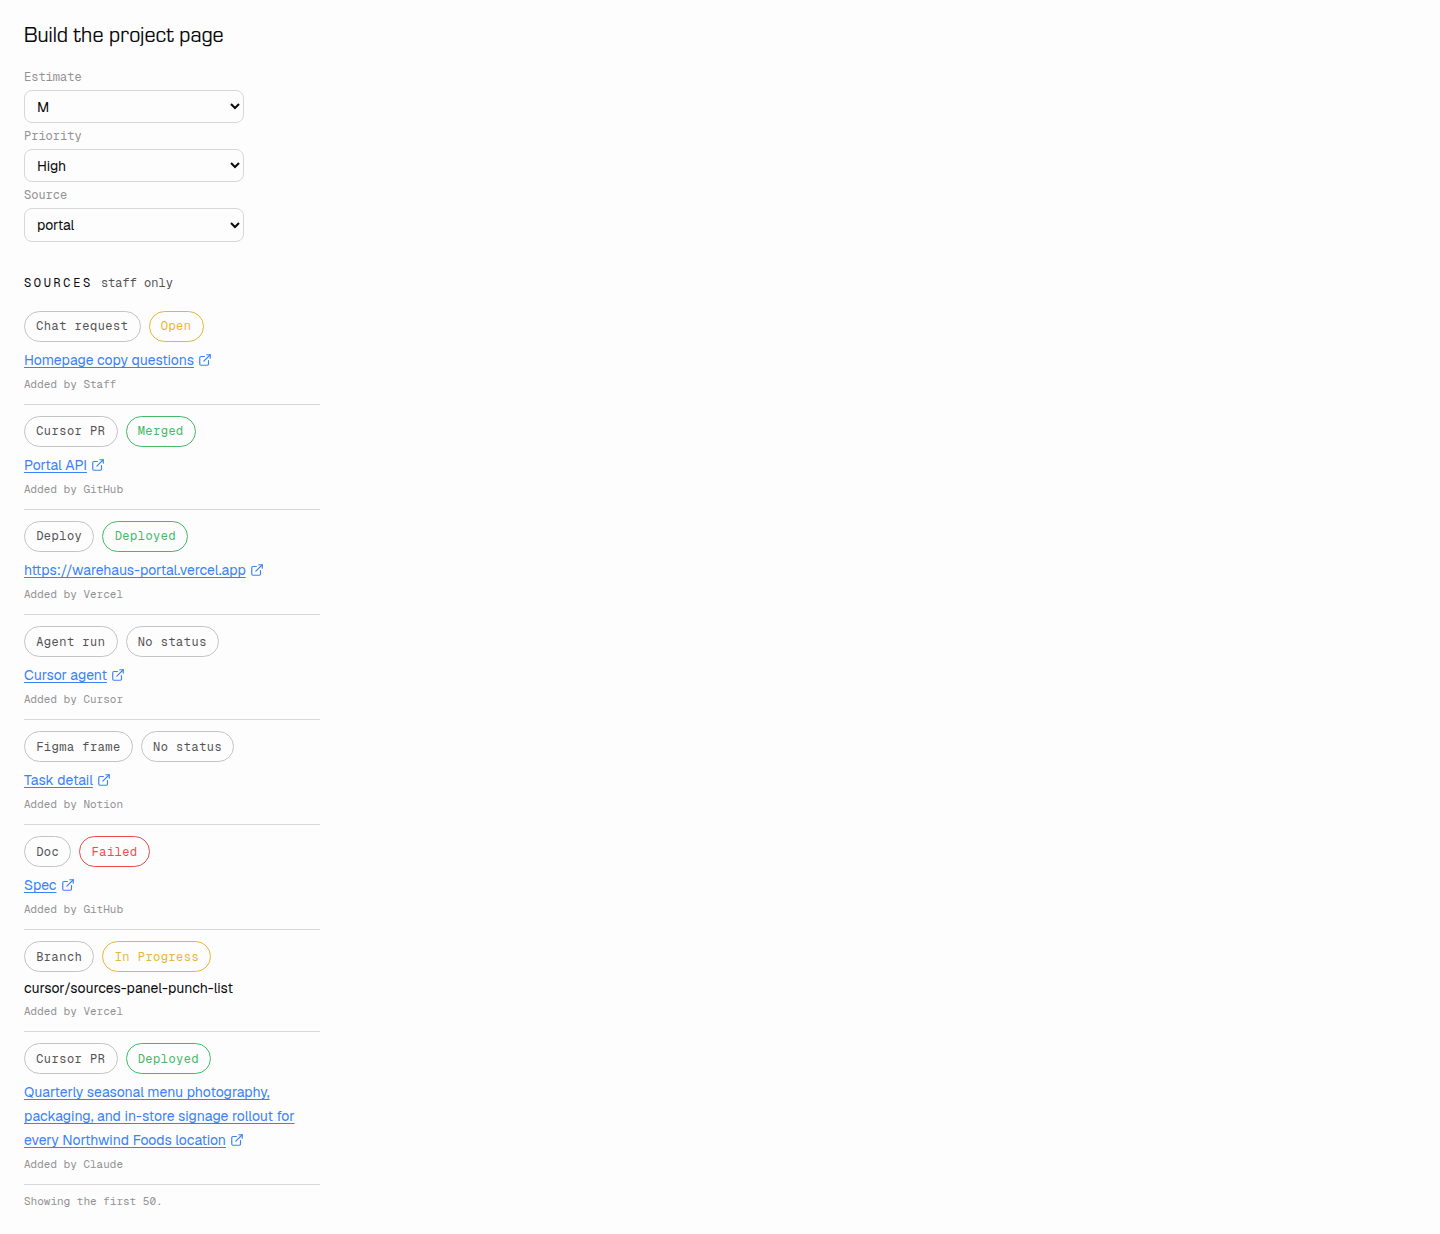
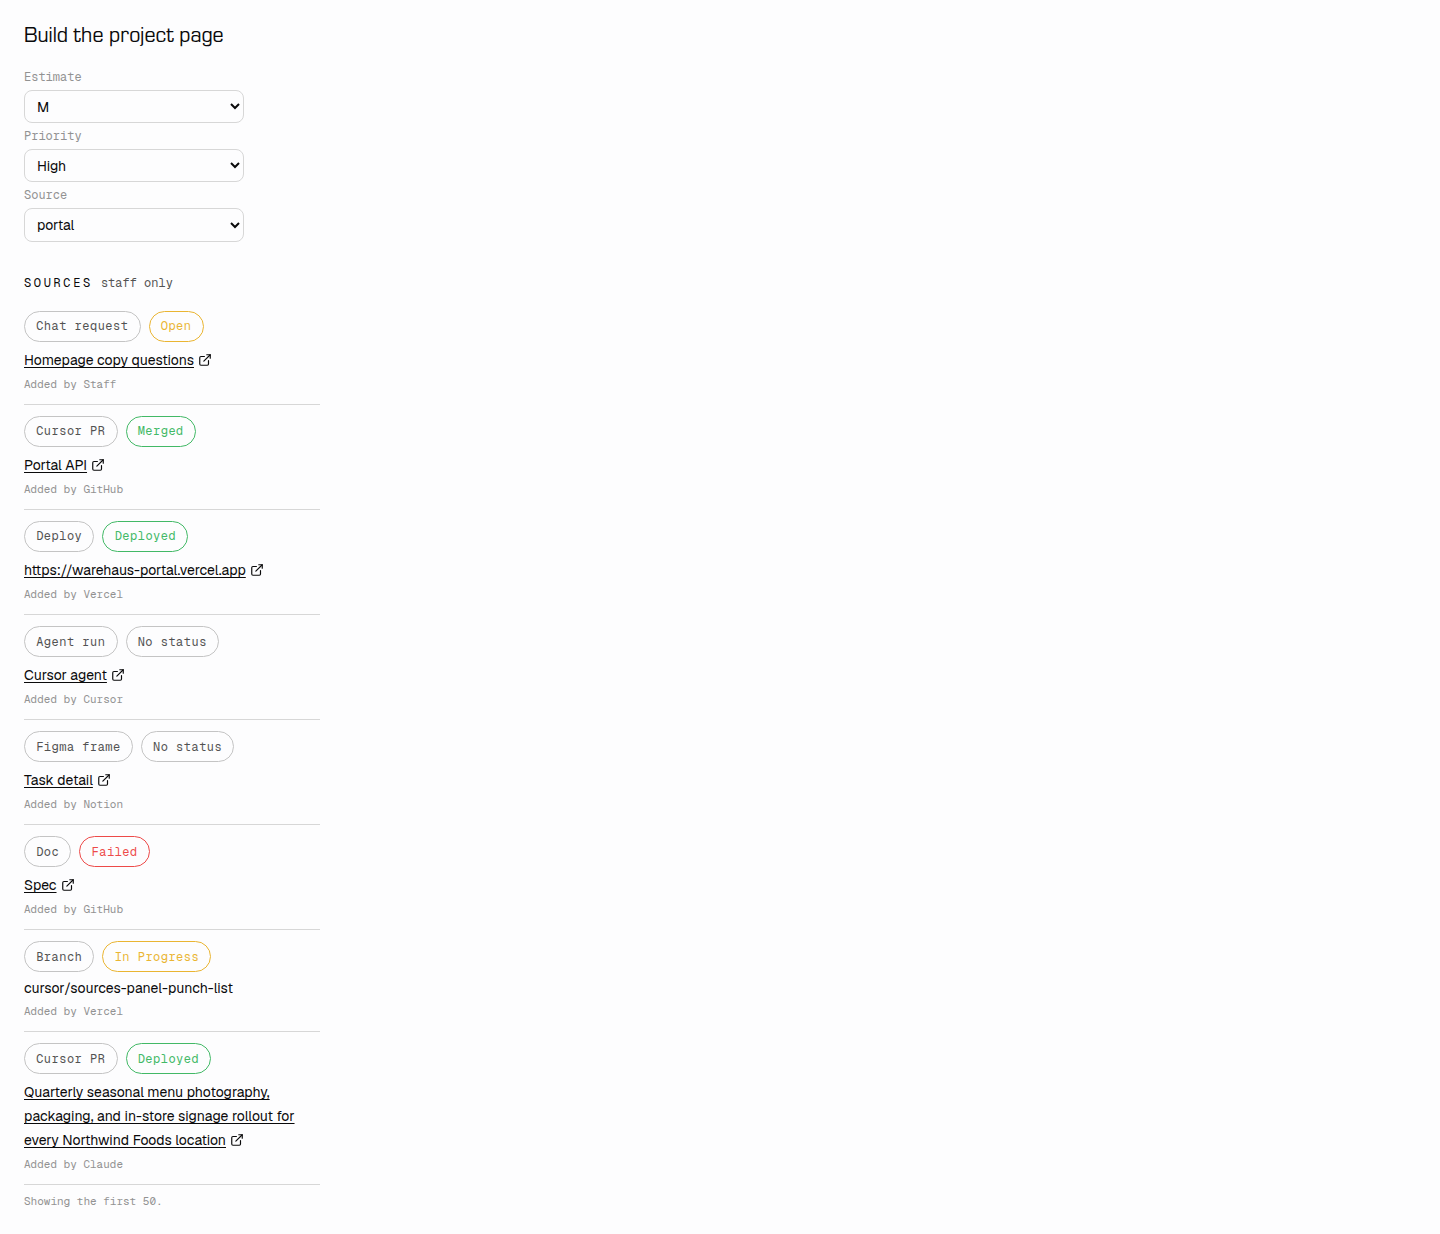
Use foreground for source link titles.
The info blue is 3.62:1 on the light rail, so staff source titles use the foreground color. The underline and the new-tab accessible name stay.

diff --git a/apps/portal/src/components/tasks/TaskSources.test.ts b/apps/portal/src/components/tasks/TaskSources.test.ts
@@ -95,9 +95,10 @@ describe('task sources panel', () => {
     assert.match(modal, /marginTop: phone \? 'calc\(var\(--s-6\) - 24px\)'/);
     const css = readFileSync(new URL('../../styles/global.css', import.meta.url), 'utf8');
     assert.match(css, /\.task-sources-section\s*\{\s*margin-top:\s*var\(--s-6\);/);
-    assert.match(css, /\.ds-scope a\.task-source-link\s*\{[^}]*color:\s*var\(--info\)/);
+    assert.match(css, /\.ds-scope a\.task-source-link\s*\{[^}]*color:\s*var\(--fg\)/);
     assert.match(css, /\.ds-scope a\.task-source-link\s*\{[^}]*text-decoration:\s*underline/);
     assert.equal(/\.ds-scope a\.task-source-link\s*\{[^}]*var\(--accent\)/.test(css), false);
+    assert.equal(/\.ds-scope a\.task-source-link\s*\{[^}]*var\(--info\)/.test(css), false);
     assert.match(css, /\.ds-scope a\.task-source-link:hover[\s\S]*text-decoration:\s*underline/);
     const tasks = readFileSync(new URL('../../../convex/tasks.ts', import.meta.url), 'utf8');
     const start = tasks.indexOf('export const linksForStaff');

diff --git a/apps/portal/src/styles/global.css b/apps/portal/src/styles/global.css
@@ -26,10 +26,10 @@ main {
   min-height: 100dvh;
 }
 
-/* Staff source titles. Inside .ds-scope, --accent is the monochrome ink/paper
-   and matches --fg. --info is the semantic hue the token set does not remap. */
+/* Staff source titles. Foreground keeps contrast on the light rail.
+   --info is 3.62:1 there, so it is not a link color. */
 .ds-scope a.task-source-link {
-  color: var(--info);
+  color: var(--fg);
   text-decoration: underline;
   text-underline-offset: 0.15em;
 }
